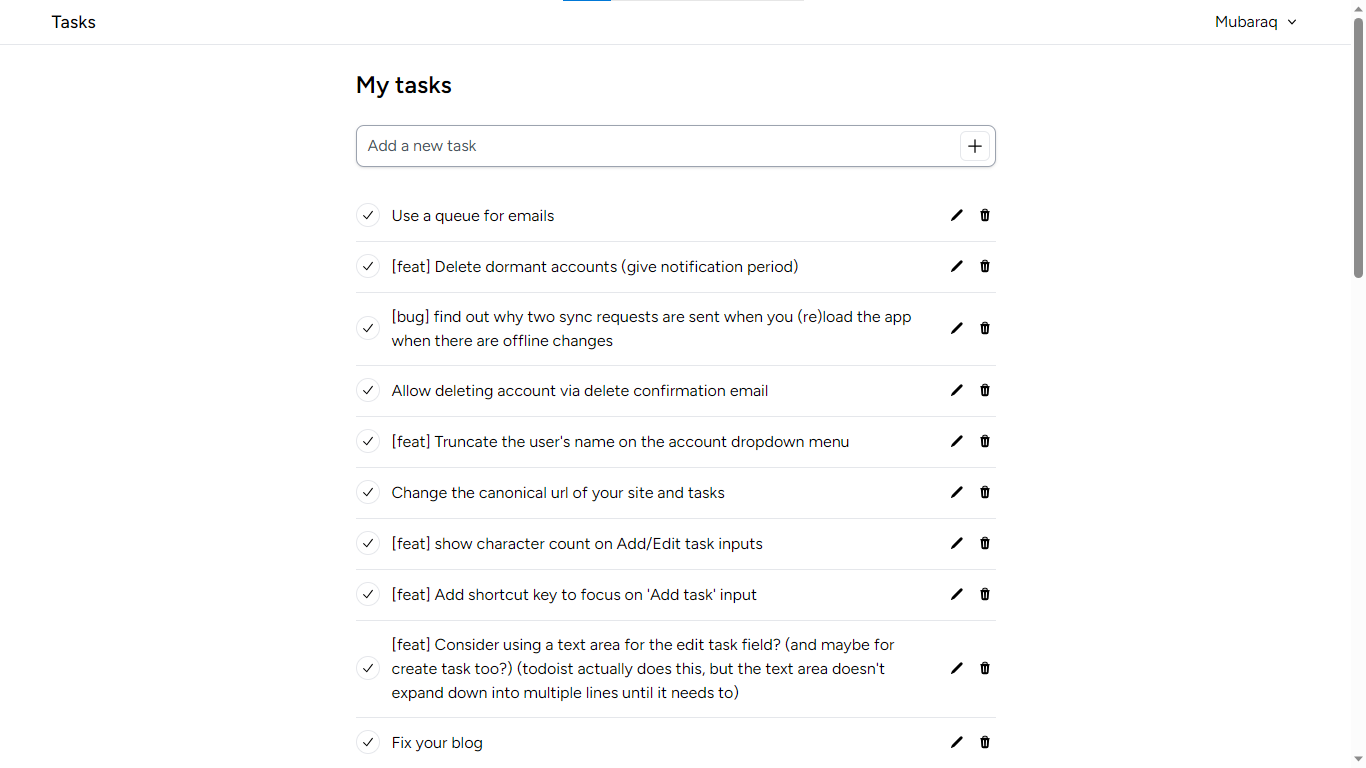
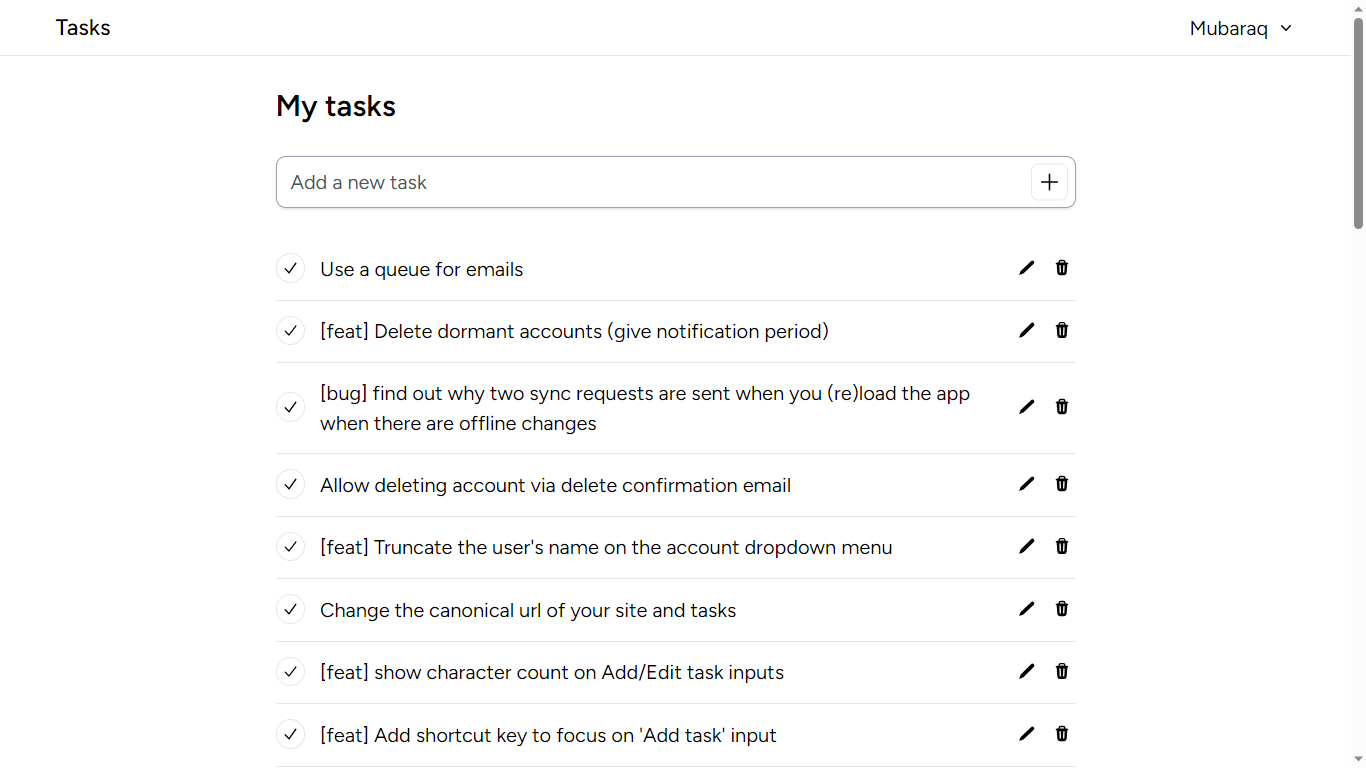
zoom-in on the tasks screenshot, and add some shadows

diff --git a/resources/views/about.blade.php b/resources/views/about.blade.php
@@ -39,7 +39,13 @@
             @endguest
           </p>
 
-          <p><img alt="A screenshot of the My tasks page of the app." class="aspect-video border" src="/images/my-tasks-screenshot.png" /></p>
+          <p>
+            <img
+              alt="A screenshot of the My tasks page of the app."
+              class="aspect-video border rounded-md shadow-lg"
+              src="/images/my-tasks-screenshot.png"
+            />
+          </p>
         </div>
         <hr />
 
